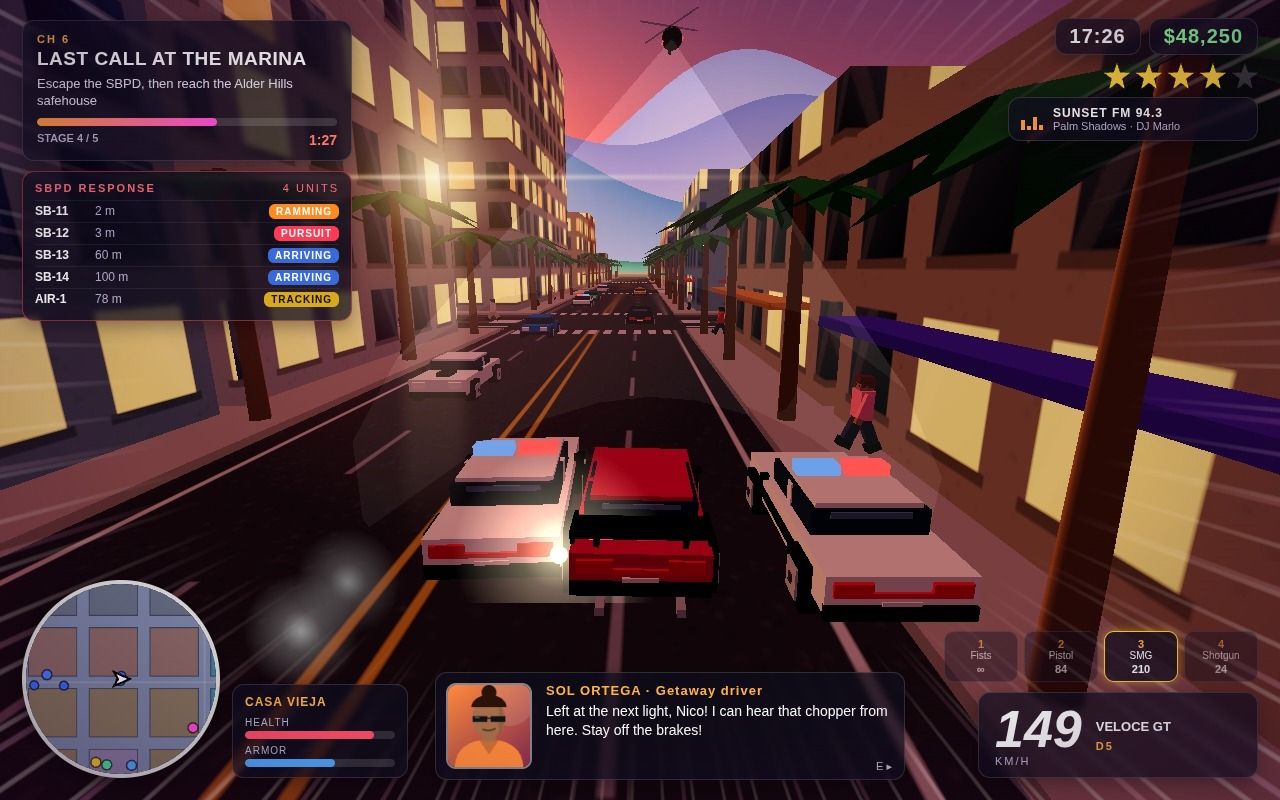
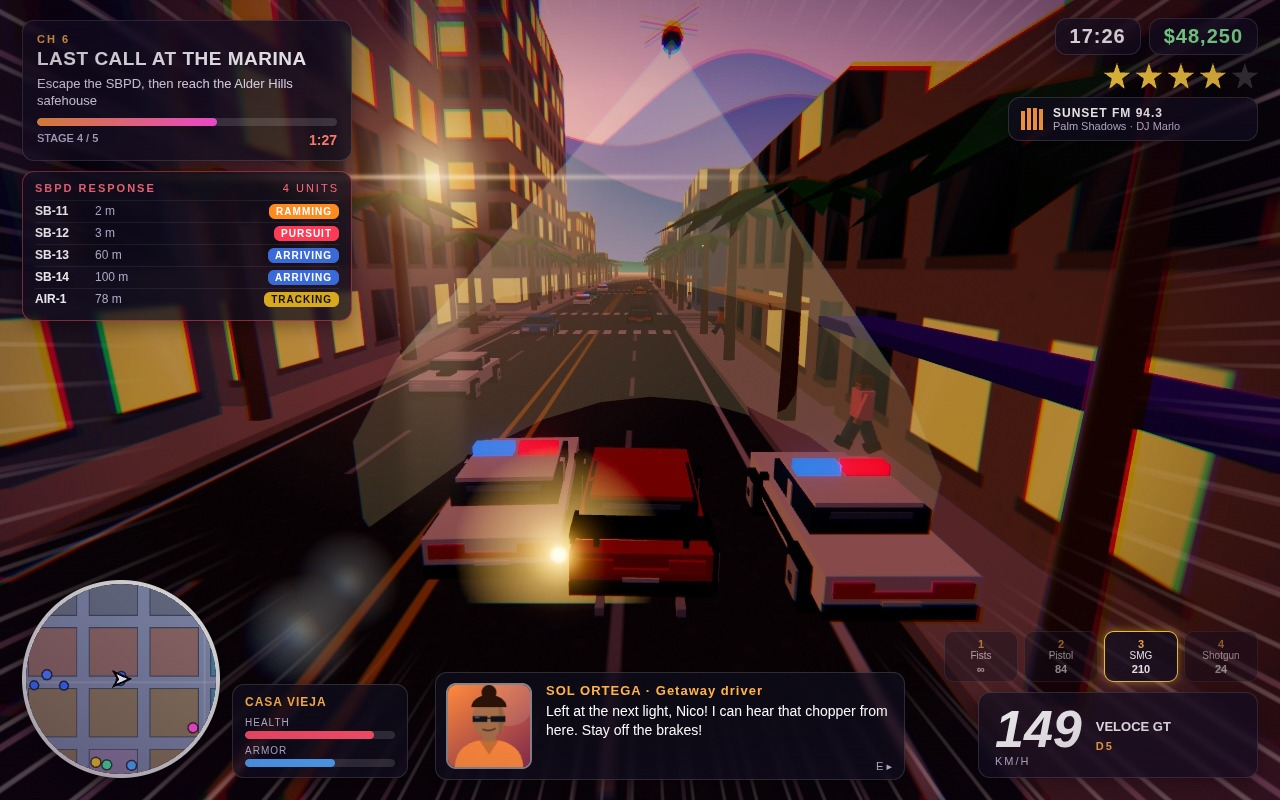
Post-processing pipeline: HDR target, bloom pyramid, ACES composite, warm grade, vignette, speed fringe; quality setting

diff --git a/game/src/render/postProcessing.js b/game/src/render/postProcessing.js
@@ -1,0 +1,93 @@
+// Post-processing for SOLVANE BAY, written from scratch on WebGLRenderTarget + ShaderMaterial full-screen passes:
+// HDR scene target -> soft-knee bright pass -> separable gaussian bloom pyramid (1/2, 1/4, 1/8 res)
+// -> composite with ACES filmic tone mapping, warm golden-hour grade, vignette and speed chromatic fringe.
+import * as THREE from 'three';
+
+const VERT = 'varying vec2 vUv; void main(){ vUv = uv; gl_Position = vec4(position.xy, 0.0, 1.0); }';
+
+const BRIGHT = `uniform sampler2D tSrc; uniform float uThreshold, uKnee; varying vec2 vUv;
+void main(){ vec3 c = texture2D(tSrc, vUv).rgb; float l = max(c.r, max(c.g, c.b));
+  float s = clamp(l - uThreshold + uKnee, 0.0, 2.0 * uKnee); s = s * s / (4.0 * uKnee + 1e-4);
+  float w = max(s, l - uThreshold) / max(l, 1e-4); gl_FragColor = vec4(min(c * w, vec3(24.0)), 1.0); }`;
+
+// 9-tap gaussian folded into 5 bilinear fetches.
+const BLUR = `uniform sampler2D tSrc; uniform vec2 uDir; varying vec2 vUv;
+void main(){ vec3 c = texture2D(tSrc, vUv).rgb * 0.2270270270;
+  vec2 o1 = uDir * 1.3846153846, o2 = uDir * 3.2307692308;
+  c += (texture2D(tSrc, vUv + o1).rgb + texture2D(tSrc, vUv - o1).rgb) * 0.3162162162;
+  c += (texture2D(tSrc, vUv + o2).rgb + texture2D(tSrc, vUv - o2).rgb) * 0.0702702703;
+  gl_FragColor = vec4(c, 1.0); }`;
+
+const COPY = 'uniform sampler2D tSrc; varying vec2 vUv; void main(){ gl_FragColor = vec4(texture2D(tSrc, vUv).rgb, 1.0); }';
+
+const COMPOSITE = `uniform sampler2D tScene, tB1, tB2, tB3; uniform float uBloom, uExposure, uFringe, uVignette, uTime, uWarm;
+varying vec2 vUv;
+vec3 aces(vec3 x){ // Narkowicz fit of the ACES filmic curve, with the RRT/ODT input/output matrices
+  const mat3 I = mat3(0.59719, 0.07600, 0.02840, 0.35458, 0.90834, 0.13383, 0.04823, 0.01566, 0.83777);
+  const mat3 O = mat3(1.60475, -0.10208, -0.00327, -0.53108, 1.10813, -0.07276, -0.07367, -0.00605, 1.07602);
+  x = I * x; vec3 a = x * (x + 0.0245786) - 0.000090537; vec3 b = x * (0.983729 * x + 0.4329510) + 0.238081; return clamp(O * (a / b), 0.0, 1.0); }
+vec3 toSRGB(vec3 c){ return mix(c * 12.92, 1.055 * pow(c, vec3(1.0 / 2.4)) - 0.055, step(0.0031308, c)); }
+void main(){
+  vec2 d = vUv - 0.5; float r2 = dot(d, d);
+  vec3 col;
+  if (uFringe > 0.001) { vec2 off = d * uFringe * r2 * 0.09;
+    col = vec3(texture2D(tScene, vUv + off).r, texture2D(tScene, vUv).g, texture2D(tScene, vUv - off).b); }
+  else col = texture2D(tScene, vUv).rgb;
+  vec3 bloom = texture2D(tB1, vUv).rgb * 0.5 + texture2D(tB2, vUv).rgb * 0.8 + texture2D(tB3, vUv).rgb * 1.1;
+  col += bloom * uBloom;
+  col *= uExposure;
+  col = aces(col);
+  // golden-hour grade: warm highlights, teal-free cool lift in the shadows, gentle saturation
+  float l = dot(col, vec3(0.2126, 0.7152, 0.0722));
+  col = mix(vec3(l), col, 1.12);
+  col *= mix(vec3(0.97, 0.99, 1.04), vec3(1.05, 1.0, 0.92), smoothstep(0.05, 0.8, l) * uWarm + (1.0 - uWarm) * 0.5);
+  col = clamp(col, 0.0, 1.0);
+  col *= mix(1.0, smoothstep(0.95, 0.18, r2 * 2.2), uVignette);
+  col = toSRGB(col);
+  col += (fract(sin(dot(gl_FragCoord.xy + uTime, vec2(12.9898, 78.233))) * 43758.5453) - 0.5) / 255.0;
+  gl_FragColor = vec4(col, 1.0); }`;
+
+export function createPostProcessing(renderer, opts = {}) {
+  const gl = renderer.getContext();
+  const isGL2 = typeof WebGL2RenderingContext !== 'undefined' && gl instanceof WebGL2RenderingContext;
+  const half = isGL2 && !!gl.getExtension('EXT_color_buffer_float');
+  const type = half ? THREE.HalfFloatType : THREE.UnsignedByteType;
+  const mk = (w, h, samples = 0) => new THREE.WebGLRenderTarget(Math.max(1, w), Math.max(1, h), { type, samples: isGL2 ? Math.max(0, samples) : 0, depthBuffer: samples >= 0, colorSpace: THREE.LinearSRGBColorSpace, minFilter: THREE.LinearFilter, magFilter: THREE.LinearFilter });
+  const samples = opts.samples ?? 4;
+  let W = 1, H = 1, sceneRT = null, levels = [];
+  const camera = new THREE.OrthographicCamera(-1, 1, 1, -1, 0, 1), quad = new THREE.Mesh(new THREE.PlaneGeometry(2, 2)), fsScene = new THREE.Scene();
+  quad.frustumCulled = false; fsScene.add(quad);
+  const mat = (frag, uniforms) => new THREE.ShaderMaterial({ vertexShader: VERT, fragmentShader: frag, uniforms, depthTest: false, depthWrite: false, toneMapped: false });
+  const bright = mat(BRIGHT, { tSrc: { value: null }, uThreshold: { value: 1.0 }, uKnee: { value: 0.5 } });
+  const blur = mat(BLUR, { tSrc: { value: null }, uDir: { value: new THREE.Vector2() } });
+  const copy = mat(COPY, { tSrc: { value: null } });
+  const comp = mat(COMPOSITE, { tScene: { value: null }, tB1: { value: null }, tB2: { value: null }, tB3: { value: null }, uBloom: { value: 0.55 }, uExposure: { value: 1.0 }, uFringe: { value: 0 }, uVignette: { value: 0.55 }, uTime: { value: 0 }, uWarm: { value: 1 } });
+  const pass = (m, target) => { quad.material = m; renderer.setRenderTarget(target); renderer.render(fsScene, camera); };
+
+  function setSize(w, h) {
+    W = w; H = h; sceneRT?.dispose(); levels.forEach((l) => { l.a.dispose(); l.b.dispose(); });
+    sceneRT = mk(w, h, samples); levels = [2, 4, 8].map((f) => ({ a: mk(w / f | 0, h / f | 0, -1), b: mk(w / f | 0, h / f | 0, -1), w: w / f | 0, h: h / f | 0 }));
+  }
+  const params = { threshold: 0.95, knee: 0.45, bloom: 0.6, exposure: 1.0, fringe: 0, vignette: 0.55 };
+  function render(scene, cam, time = 0) {
+    const prevTM = renderer.toneMapping; renderer.toneMapping = THREE.NoToneMapping;
+    renderer.setRenderTarget(sceneRT); renderer.render(scene, cam);
+    bright.uniforms.tSrc.value = sceneRT.texture; bright.uniforms.uThreshold.value = params.threshold; bright.uniforms.uKnee.value = params.knee; pass(bright, levels[0].a);
+    let src = levels[0].a;
+    for (let i = 0; i < levels.length; i++) {
+      const L = levels[i];
+      if (i > 0) { copy.uniforms.tSrc.value = src.texture; pass(copy, L.a); }
+      const iters = i === 0 ? 1 : 2;
+      for (let k = 0; k < iters; k++) {
+        blur.uniforms.tSrc.value = L.a.texture; blur.uniforms.uDir.value.set(1 / L.w, 0); pass(blur, L.b);
+        blur.uniforms.tSrc.value = L.b.texture; blur.uniforms.uDir.value.set(0, 1 / L.h); pass(blur, L.a);
+      }
+      src = L.a;
+    }
+    const u = comp.uniforms; u.tScene.value = sceneRT.texture; u.tB1.value = levels[0].a.texture; u.tB2.value = levels[1].a.texture; u.tB3.value = levels[2].a.texture;
+    u.uBloom.value = params.bloom; u.uExposure.value = params.exposure; u.uFringe.value = params.fringe; u.uVignette.value = params.vignette; u.uTime.value = time % 100;
+    pass(comp, null); renderer.toneMapping = prevTM;
+  }
+  const size = renderer.getDrawingBufferSize(new THREE.Vector2()); setSize(size.x, size.y);
+  return { render, setSize, params, hdr: half };
+}

diff --git a/game/src/main.js b/game/src/main.js
@@ -30,10 +30,11 @@ import { initMenus, showScreen, hideScreens, showDead } from './ui/menus.js';
 import { initAudio, sfx } from './audio/soundEngine.js';
 import { cycleRadio, updateRadio } from './audio/radioStations.js';
 import { saveGame, readSave, applySave } from './save/saveGame.js';
+import { createPostProcessing } from './render/postProcessing.js';
 import { runShot, runSelfTest } from './shots/screenshotScenes.js';
 
 const params = new URLSearchParams(location.search), shotName = params.get('shot'), selftest = params.has('selftest');
-let renderer, sky, pedT = 0;
+let renderer, sky, post = null, pedT = 0;
 window.addEventListener('error', (e) => console.error('CONSOLE_ERROR ' + e.message + ' @' + (e.filename || '').split('/').pop() + ':' + e.lineno));
 window.addEventListener('unhandledrejection', (e) => console.error('CONSOLE_ERROR ' + e.reason));
 
@@ -97,7 +98,15 @@ function keys() {
 }
 export function renderFrame(snap) {
   const focus = G.p; if (G.mode === 'title') { const o = Math.sin(G.time * 0.05) * 60; Object.assign(rig.aerial, { x: 190 + o, y: 120, z: 390, tx: 150 + o * 0.5, ty: 0, tz: -70 }); }
-  updateCamera(0.016, !!snap); sky.update(G.clock, rig.mode === 'aerial' ? { x: 0, z: 0 } : focus, G.camera); renderer.render(G.scene, G.camera); screenFx();
+  updateCamera(0.016, !!snap); sky.update(G.clock, rig.mode === 'aerial' ? { x: 0, z: 0 } : focus, G.camera); draw(); screenFx();
+}
+// Draw through the bloom/tone-mapping pipeline when enabled; plain renderer output is the fallback.
+function draw() {
+  if (post && G.settings.post !== false) {
+    try { const sp = G.p.car ? Math.abs(G.p.car.speed) : 0; post.params.fringe = G.mode === 'play' ? Math.max(0, Math.min(1, (sp - 22) / 28)) : 0; post.params.exposure = G.exposure || 1.25; post.render(G.scene, G.camera, G.time); return; }
+    catch (e) { console.warn('post-processing disabled: ' + e.message); post = null; }
+  }
+  renderer.setRenderTarget(null); renderer.render(G.scene, G.camera);
 }
 function screenFx() {
   const sp = G.mode === 'play' && G.p.car ? Math.abs(G.p.car.speed) : 0; speedEl.style.opacity = String(Math.max(0, Math.min(0.85, (sp - 18) / 30)));
@@ -108,7 +117,7 @@ let last = 0;
 function frame(t) {
   requestAnimationFrame(frame); const dt = Math.min(0.05, (t - last) / 1000 || 0.016); last = t; keys(); stepGame(dt);
   if (G.mode === 'title') { G.p.x = 0; G.p.z = 0; }
-  updateCamera(dt, false); sky.update(G.clock, rig.mode === 'aerial' ? { x: 0, z: 0 } : G.p, G.camera); renderer.render(G.scene, G.camera);
+  updateCamera(dt, false); sky.update(G.clock, rig.mode === 'aerial' ? { x: 0, z: 0 } : G.p, G.camera); draw();
   if (G.mode !== 'title') updateHud(dt); endFrame();
 }
 async function boot() {
@@ -116,7 +125,9 @@ async function boot() {
   renderer = G.renderer = new THREE.WebGLRenderer({ canvas, antialias: !shotName, preserveDrawingBuffer: !!shotName, powerPreference: 'high-performance' }); renderer.setPixelRatio(shotName ? 1 : Math.min(devicePixelRatio, 1.5)); renderer.setSize(shotName ? 1280 : innerWidth, shotName ? 800 : innerHeight);
   renderer.shadowMap.enabled = true; renderer.shadowMap.type = THREE.PCFSoftShadowMap; renderer.toneMapping = THREE.ACESFilmicToneMapping; renderer.toneMappingExposure = 1.3;
   const scene = G.scene = new THREE.Scene(); const camera = G.camera = new THREE.PerspectiveCamera(60, shotName ? 1.6 : innerWidth / innerHeight, 0.5, 1800); scene.add(camera);
-  if (!shotName) addEventListener('resize', () => { renderer.setSize(innerWidth, innerHeight); camera.aspect = innerWidth / innerHeight; camera.updateProjectionMatrix(); });
+  if (!shotName) addEventListener('resize', () => { renderer.setSize(innerWidth, innerHeight); post?.setSize(renderer.getDrawingBufferSize(new THREE.Vector2()).x, renderer.getDrawingBufferSize(new THREE.Vector2()).y); camera.aspect = innerWidth / innerHeight; camera.updateProjectionMatrix(); });
+  try { post = createPostProcessing(renderer, { samples: 4 }); } catch (e) { console.warn('post-processing unavailable: ' + e.message); post = null; }
+  G.settings.post = params.get('post') !== '0';
   initInput(canvas); input.onUnlock = () => { if (G.mode === 'play') pause(true); };
   buildLayout(rng); const tex = { facade: facadeMaps() };
   sky = createSky(scene); buildBeachAndSea(scene, rng); buildRoads(scene); buildCity(scene, tex, rng); buildProps(scene, rng); initEffects(scene);

diff --git a/game/index.html b/game/index.html
@@ -44,7 +44,7 @@
 </div>
 <div id="pause" class="screen hidden"><div class="panel"><h2>PAUSED</h2><div class="menu"><button data-act="resume">Resume</button><button data-act="map">City Map</button><button data-act="save">Save Game</button><button data-act="controls">Controls</button><button data-act="settings">Settings</button><button data-act="quit">Quit to Title</button></div></div></div>
 <div id="controls" class="screen hidden"><div class="panel wide"><h2>CONTROLS</h2><div class="keys" id="keysList"></div><button data-act="back">Back</button></div></div>
-<div id="settings" class="screen hidden"><div class="panel"><h2>SETTINGS</h2><label>Master volume <input id="setVol" type="range" min="0" max="1" step="0.05" value="0.7"></label><label>Mouse sensitivity <input id="setSens" type="range" min="0.3" max="2.5" step="0.1" value="1"></label><button data-act="back">Back</button></div></div>
+<div id="settings" class="screen hidden"><div class="panel"><h2>SETTINGS</h2><label>Master volume <input id="setVol" type="range" min="0" max="1" step="0.05" value="0.7"></label><label>Mouse sensitivity <input id="setSens" type="range" min="0.3" max="2.5" step="0.1" value="1"></label><label>Visual quality <select id="setFx"><option value="1">Cinematic (bloom + grade)</option><option value="0">Performance</option></select></label><button data-act="back">Back</button></div></div>
 <div id="shop" class="screen hidden"><div class="panel wide"><h2>CALDER ARMS</h2><div id="shopMoney"></div><div id="shopList"></div><button data-act="closeShop">Leave</button></div></div>
 <div id="cityMap" class="screen hidden">
   <div class="mapframe"><div class="maphead"><h2>CITY MAP · SOLVANE BAY</h2><span>M / Esc to close</span></div><canvas id="mapCanvas" width="880" height="716"></canvas></div>

diff --git a/game/src/ui/menus.js b/game/src/ui/menus.js
@@ -15,6 +15,7 @@ export function initMenus(handlers) {
   $('keysList').innerHTML = KEYS.map(([k, t]) => `<div><b>${k}</b>${t}</div>`).join('');
   document.querySelectorAll('[data-act]').forEach((b) => b.addEventListener('click', () => { sfx.click(); handlers[b.dataset.act]?.(); }));
   $('setVol').addEventListener('input', (e) => setVolume(+e.target.value)); $('setSens').addEventListener('input', (e) => { G.settings.sens = +e.target.value; });
+  $('setFx').addEventListener('change', (e) => { G.settings.post = e.target.value === '1'; });
 }
 export function showScreen(id) {
   ALL.forEach((s) => $(s).classList.toggle('hidden', s !== id)); if (id === 'title') { const sv = readSave(); $('btnContinue').disabled = !sv; $('contSub').textContent = sv ? saveLine(sv) : ''; } if (id === 'cityMap') drawCityMap(); if (id === 'shop') fillShop();
